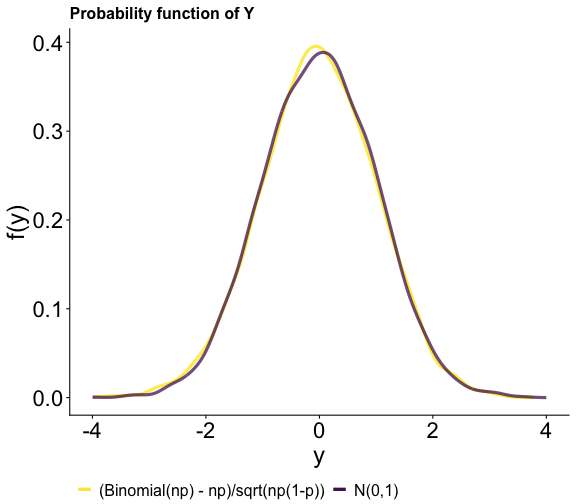
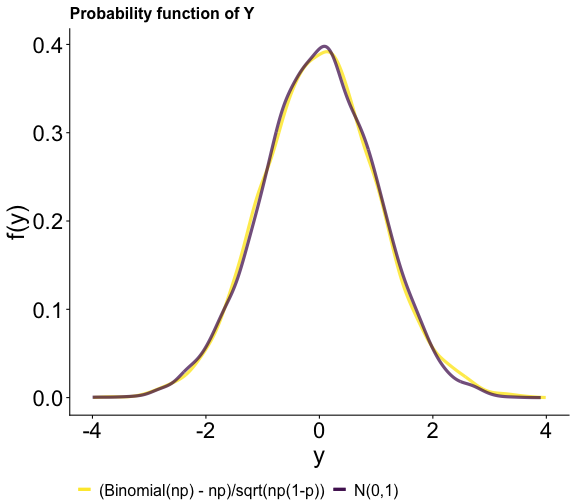
Update

diff --git a/slides/class_4/class_4.html b/slides/class_4/class_4.html
@@ -281,7 +281,7 @@ glimpse(coins200)
 ```
 
 ```
-##  int [1:10000] 100 105 101 112 95 113 99 97 93 76 ...
+##  int [1:10000] 90 104 103 97 103 102 96 90 98 105 ...
 ```
 
 ```r
@@ -291,10 +291,10 @@ print(moments)
 
 ```
 ## $mean
-## [1] 100.0537
+## [1] 100.0124
 ## 
 ## $var
-## [1] 50.57767
+## [1] 49.19397
 ```
 
 ---
